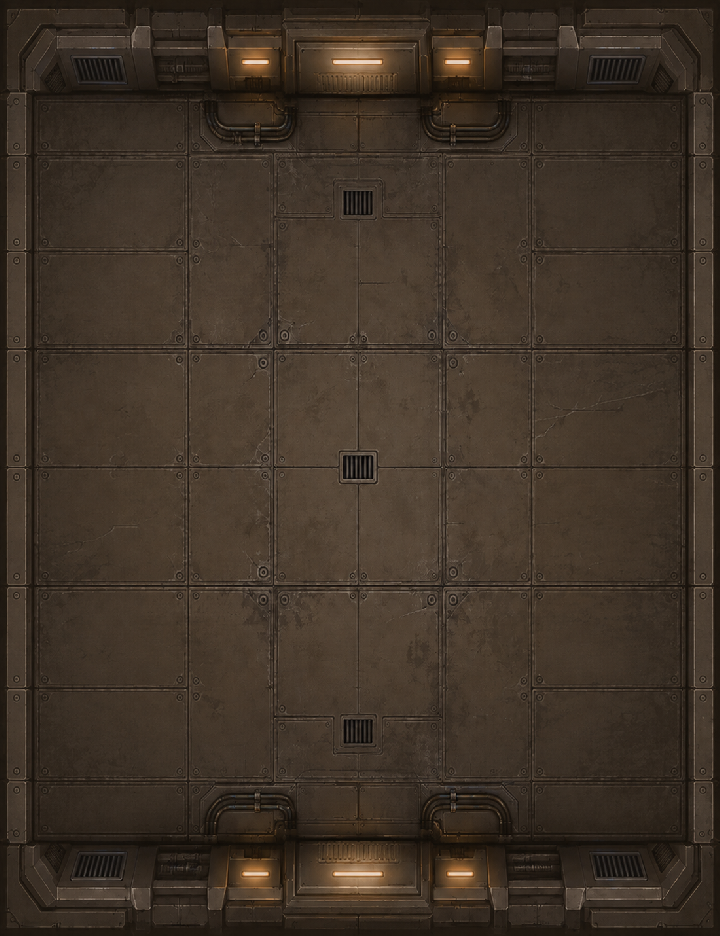
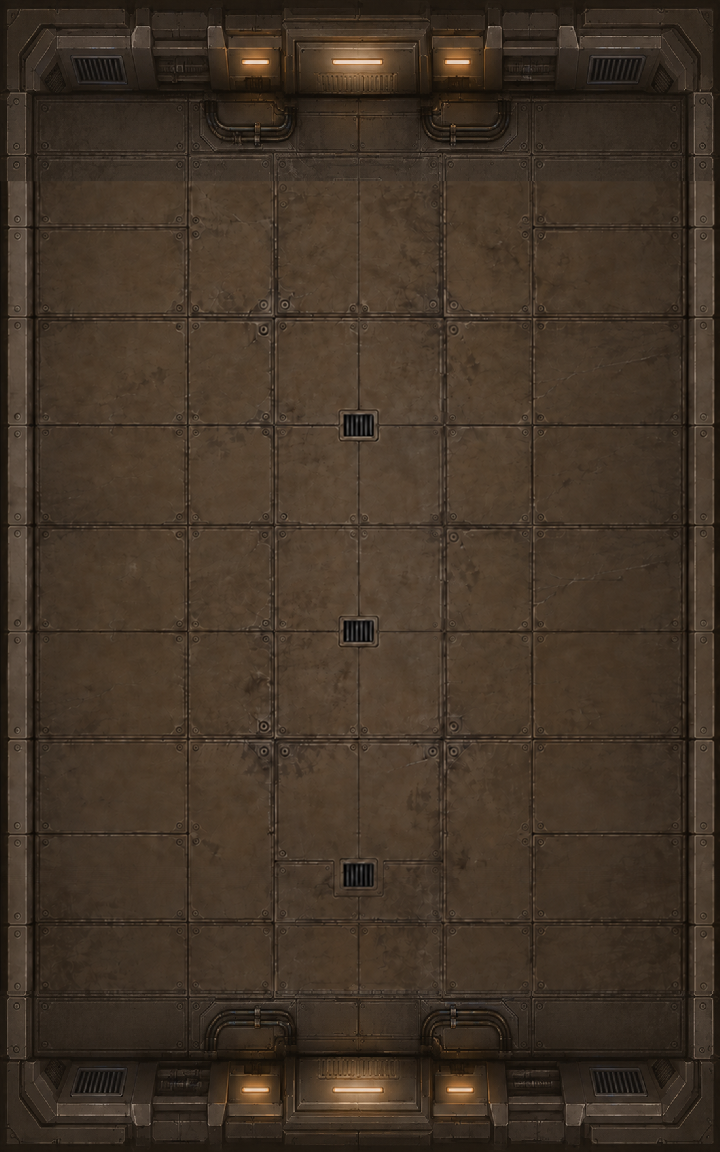
연구소 바닥까지 — 방 바닥 12장 모두 720×1152
- 연구소 새 줄 100% · 반복 0. 판 이음과 통풍구가 온전하다
- 방 60개가 쓰는 바닥은 이제 전부 1152 다. 파이썬(벽 보스)만 13 m 방이라 936 그대로
- 배경이 안 적힌 방의 대비책이 936 짜리 옛 배경(roomfloor_ch1_*)을 가리키던 것을 새 배경으로 돌렸다 — 16 m 방에 깔리면 세로로 늘어난다

diff --git a/Assets/Scripts/Module/InGame/BattleDirector.Room.cs b/Assets/Scripts/Module/InGame/BattleDirector.Room.cs
@@ -263,11 +263,13 @@ namespace Game.Module.InGame
         private const string RoomFloorPrefix = "roomfloor/";
 
         /// <summary>
-        /// 새 배경이 다 올 때까지 **모든 방이 함께 쓰는 배경**.
-        /// 규격(720×936) · 바닥 줄눈 36 px · 밝기가 모두 맞는 유일한 한 장이다.
-        /// 나머지 17 장이 규격에 맞춰 다시 오면 이 상수와 `ApplyRoomFloor` 의 임시 분기를 지운다.
+        /// 방 표에 배경이 안 적힌 방(절차 생성 등)이 쓰는 **대비책 한 장**.
+        ///
+        /// ⚠ 2026-09-14 방이 16 m(1152 px)가 되면서 **936 짜리 옛 배경을 가리키면 안 된다** —
+        ///   바닥은 방 크기로 늘어나므로 936 을 깔면 무늬가 세로로 늘어진다.
+        ///   그래서 새로 그린 1152 배경 중 하나를 가리킨다.
         /// </summary>
-        private const string InterimRoomFloor = "roomfloor_ch1_twin_platform";
+        private const string InterimRoomFloor = "roomfloor_env_junkyard";
 
         /// <summary>
         /// 지형 배경 6종이 **다 들어온 챕터까지의 번호**. 여기까지는 방마다 제 배경을 쓴다.

diff --git a/Assets/Scripts/Module/InGame/BattleDirector.cs b/Assets/Scripts/Module/InGame/BattleDirector.cs
@@ -4864,10 +4864,9 @@ namespace Game.Module.InGame
         /// </summary>
         private static string ChapterFloorKey(int chapter, RoomEntry room) => chapter switch
         {
-            // CH1 만 지형별 여섯 장이 이미 통과했다 — 그대로 쓴다.
-            1 => !string.IsNullOrEmpty(room.Template)
-                 ? $"roomfloor_ch1_{room.Template.ToLowerInvariant()}"
-                 : "roomfloor_env_junkyard",
+            // ⚠ 예전에는 CH1 만 배치 글자별로 여섯 장(`roomfloor_ch1_*`)을 따로 깔았다.
+            //   그 여섯 장은 720×936 이라 16 m 방에서 세로로 늘어난다(2026-09-14) — 무대 한 장으로 통일한다.
+            1 => "roomfloor_env_junkyard",
             2 => "roomfloor_env_missile",
             3 => "roomfloor_env_street",
             4 => "roomfloor_env_rooftop",
